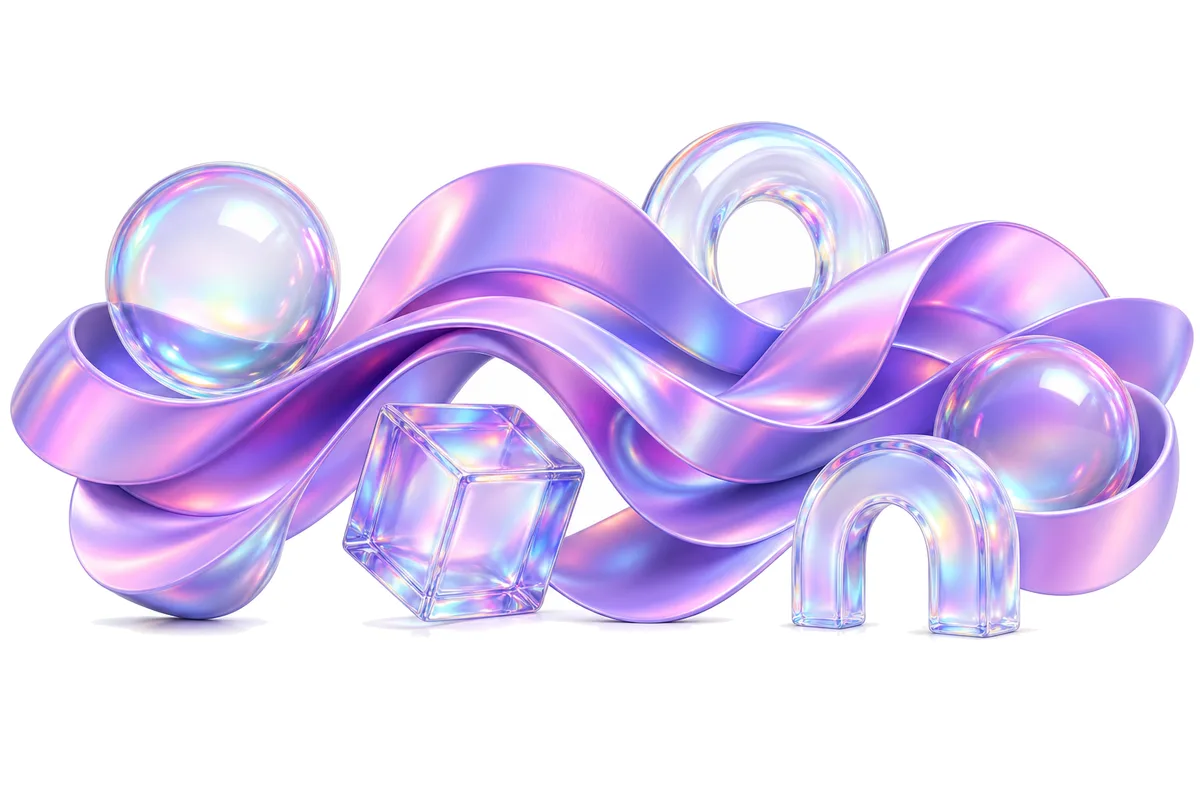
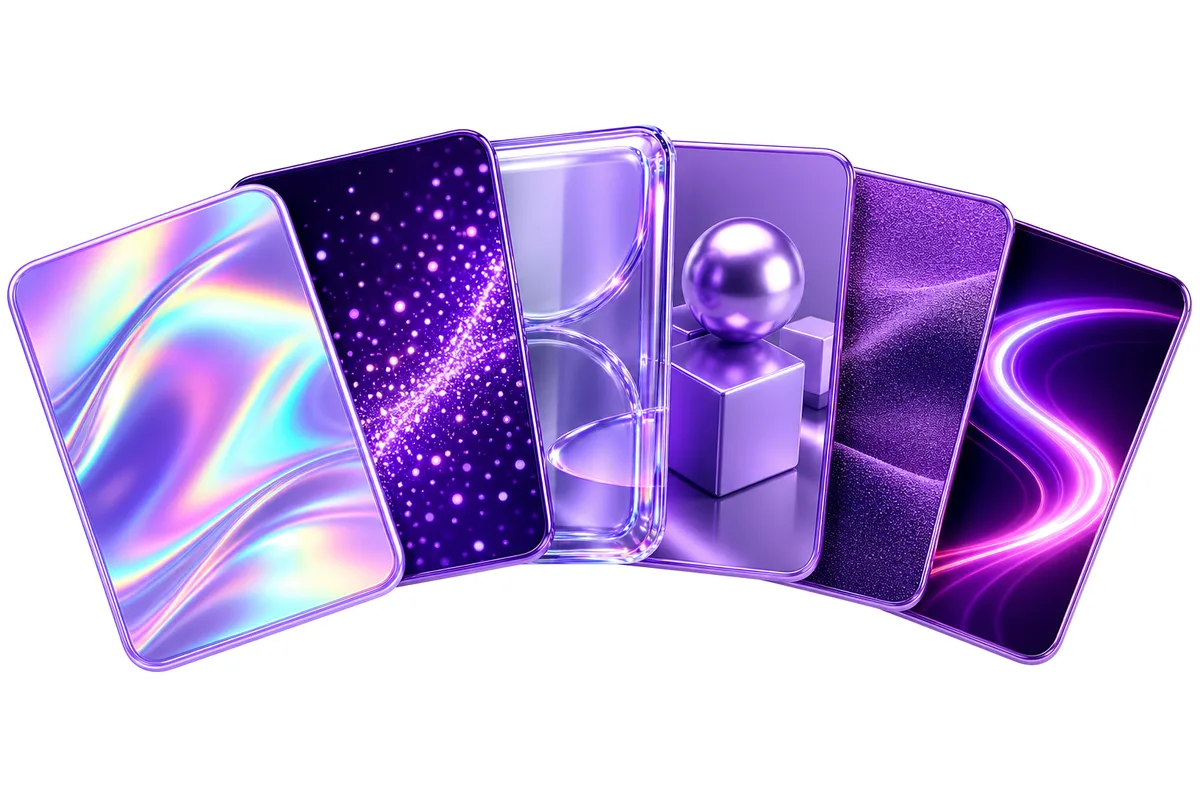
fix(qa2): Colors 비비드 부채·Recipes 기법 타일 덱 재생성 + 카드 cursor-pointer
Recipes 컨셉 사용자 확정(기법 타일 모음 — 홀로 그라디언트·파티클·글래스·
3D·그레인·네온 6타일 덱). 커서 pointer 실측 확인.

diff --git a/examples/ui-vocabulary-site/src/components/get-started-page.tsx b/examples/ui-vocabulary-site/src/components/get-started-page.tsx
@@ -28,7 +28,7 @@ export function GetStartedPage({ onNavigate }: { onNavigate: (destination: HomeP
 
         <div className="grid gap-6 lg:grid-cols-[1.55fr_1fr]">
           <button
-            className="group overflow-hidden rounded-2xl border bg-card p-8 pb-0 text-left shadow-sm transition-all duration-200 hover:scale-[1.015] hover:border-foreground/25 hover:shadow-md motion-reduce:transform-none"
+            className="group cursor-pointer overflow-hidden rounded-2xl border bg-card p-8 pb-0 text-left shadow-sm transition-all duration-200 hover:scale-[1.015] hover:border-foreground/25 hover:shadow-md motion-reduce:transform-none"
             type="button"
             onClick={() => onNavigate({ page: "plus", filter: "nav:plus-marketing" })}
           >
@@ -43,7 +43,7 @@ export function GetStartedPage({ onNavigate }: { onNavigate: (destination: HomeP
           </button>
 
           <button
-            className="group flex flex-col rounded-2xl border bg-card p-8 text-left shadow-sm transition-all duration-200 hover:scale-[1.015] hover:border-foreground/25 hover:shadow-md motion-reduce:transform-none"
+            className="group cursor-pointer flex flex-col rounded-2xl border bg-card p-8 text-left shadow-sm transition-all duration-200 hover:scale-[1.015] hover:border-foreground/25 hover:shadow-md motion-reduce:transform-none"
             type="button"
             onClick={() => onNavigate({ page: "colors" })}
           >
@@ -59,7 +59,7 @@ export function GetStartedPage({ onNavigate }: { onNavigate: (destination: HomeP
         </div>
 
         <button
-          className="group grid gap-8 overflow-hidden rounded-2xl border bg-card p-8 text-left shadow-sm transition-all duration-200 hover:scale-[1.01] hover:border-foreground/25 hover:shadow-md motion-reduce:transform-none lg:grid-cols-[1fr_1.1fr]"
+          className="group cursor-pointer grid gap-8 overflow-hidden rounded-2xl border bg-card p-8 text-left shadow-sm transition-all duration-200 hover:scale-[1.01] hover:border-foreground/25 hover:shadow-md motion-reduce:transform-none lg:grid-cols-[1fr_1.1fr]"
           type="button"
           onClick={() => onNavigate({ page: "recipes" })}
         >
@@ -78,7 +78,7 @@ export function GetStartedPage({ onNavigate }: { onNavigate: (destination: HomeP
         <h2 className="mt-10 text-2xl font-semibold text-foreground">More ways in</h2>
         <div className="grid gap-6 md:grid-cols-3">
           <button
-            className="group flex flex-col gap-4 rounded-2xl border bg-card p-7 text-left shadow-sm transition-all duration-200 hover:scale-[1.02] hover:border-foreground/25 hover:shadow-md motion-reduce:transform-none"
+            className="group cursor-pointer flex flex-col gap-4 rounded-2xl border bg-card p-7 text-left shadow-sm transition-all duration-200 hover:scale-[1.02] hover:border-foreground/25 hover:shadow-md motion-reduce:transform-none"
             type="button"
             onClick={() => onNavigate({ page: "docs", filter: "nav:docs-all" })}
           >
